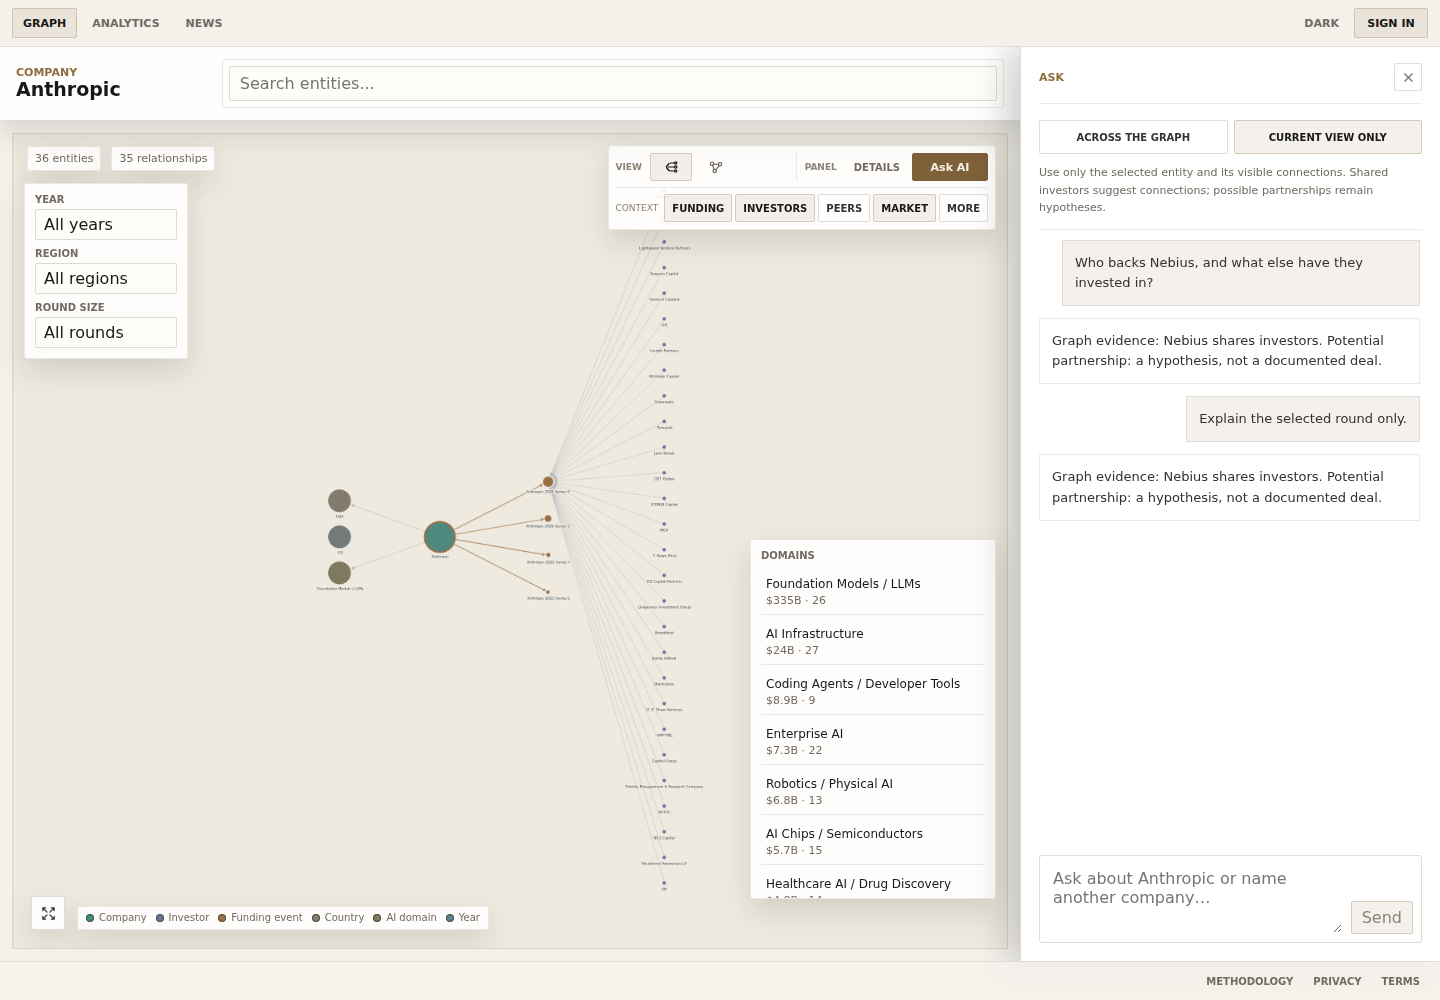
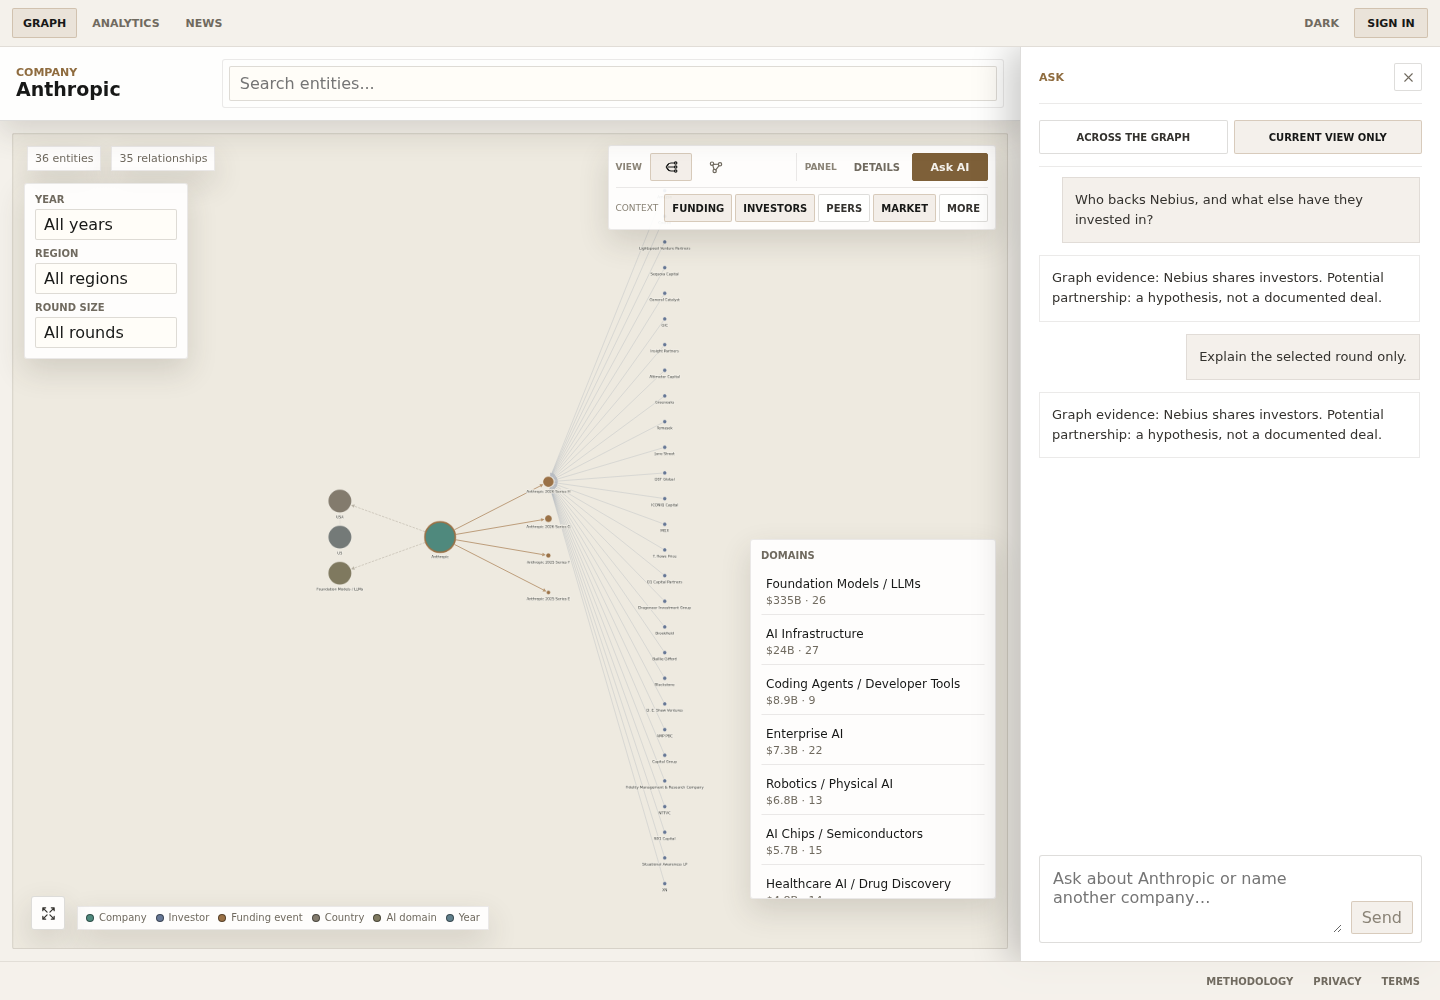
Keep only scope tabs above the Ask conversation

Changed region(s): [[0.7188, 0.155, 0.9688, 0.31], [0.7188, 0.403, 0.9688, 0.527], [0.7188, 0.341, 0.9688, 0.372]]

diff --git a/web/src/App.tsx b/web/src/App.tsx
@@ -1945,18 +1945,13 @@ function AskPanel({
               onClick={() => setScope(option.value)} type="button">{option.label}</button>
           ))}
         </div>
-        <p>{scope === "graph" ? "Find companies, backers, and their other funding connections beyond the visible view." : "Use only the selected entity and its visible connections."} Shared investors suggest connections; possible partnerships remain hypotheses.</p>
       </div>
       <div className="chat-thread">
-        {messages.length ? (
-          messages.map((message, index) => (
-            <div className={`chat-message ${message.role}`} key={`${message.role}-${index}`}>
-              {message.role === "assistant" ? <AssistantMessage content={message.content} /> : message.content}
-            </div>
-          ))
-        ) : (
-          <div className="chat-empty"><p>Ask about an entity by name or follow its connections across the graph.</p><button type="button" onClick={() => setQuestion(`Who backs ${selected.startup_name || selected.label}, what other companies have those investors backed, and which partnerships might make sense? Separate evidence from hypotheses.`)}>Explore shared investors and possible partnerships →</button></div>
-        )}
+        {messages.map((message, index) => (
+          <div className={`chat-message ${message.role}`} key={`${message.role}-${index}`}>
+            {message.role === "assistant" ? <AssistantMessage content={message.content} /> : message.content}
+          </div>
+        ))}
         {status === "loading" ? <div className="chat-message assistant">Thinking...</div> : null}
       </div>
       <div className="chat-composer">

diff --git a/web/src/styles.css b/web/src/styles.css
@@ -3742,9 +3742,7 @@ a {
 .ask-scope-buttons { display: grid; grid-template-columns: repeat(2, minmax(0, 1fr)); gap: 6px; width: 100%; }
 .ask-scope-buttons .chip { width: 100%; min-height: 34px; border-radius: 2px; padding: 6px 7px; font-size: 10px; font-weight: 900; text-transform: uppercase; }
 .ask-scope-buttons .chip:disabled { cursor: not-allowed; opacity: .5; }
-.ask-scope p { margin: 10px 0 0; font-size: 11px; line-height: 1.6; color: var(--muted); }
-.chat-empty button { padding: 10px; border: 1px solid var(--accent-border); border-radius: 4px; color: var(--text); background: var(--accent-soft); font: inherit; font-size: 12px; line-height: 1.6; text-align: left; cursor: pointer; }
-.ask-scope-buttons .chip:focus-visible, .chat-empty button:focus-visible { outline: 2px solid var(--accent); outline-offset: 2px; }
+.ask-scope-buttons .chip:focus-visible { outline: 2px solid var(--accent); outline-offset: 2px; }
 
 @media (max-width: 760px) {
   .explorer-shell.graph-shell, .explorer-shell.graph-shell.has-right, .explorer-shell.graph-shell.no-right {

diff --git a/docs/ASK_GRAPH_CONNECTIONS.md b/docs/ASK_GRAPH_CONNECTIONS.md
@@ -18,4 +18,4 @@ The graph represents curated publicly reported AI mega-rounds above the selected
 
 The checked-in snapshot resolves Nebius from a different selected company and returns 64 funding paths: 41 via NVIDIA, 22 via Accel and one via Orbis. These are event paths, not 64 distinct companies or 64 partnerships. Orbis has no other portfolio company recorded here; its actual portfolio is not established by that absence.
 
-Regression tests cover named entities outside the viewport, explicit current-view scope, follow-ups, funding-round selection, name boundaries, forged browser evidence, low-confidence exclusion, fair bounded retrieval and complete retained paths. Browser checks cover the scope selector, example prompt, posted scope, and desktop/mobile Ask layout with local stub responses. They do not verify deployed Render inference or partnership predictions.
+Regression tests cover named entities outside the viewport, explicit current-view scope, follow-ups, funding-round selection, name boundaries, forged browser evidence, low-confidence exclusion, fair bounded retrieval and complete retained paths. Browser checks cover the two scope tabs, absence of introductory text and suggestion buttons, posted scope, and desktop/mobile Ask layout with local stub responses. They do not verify deployed Render inference or partnership predictions.
